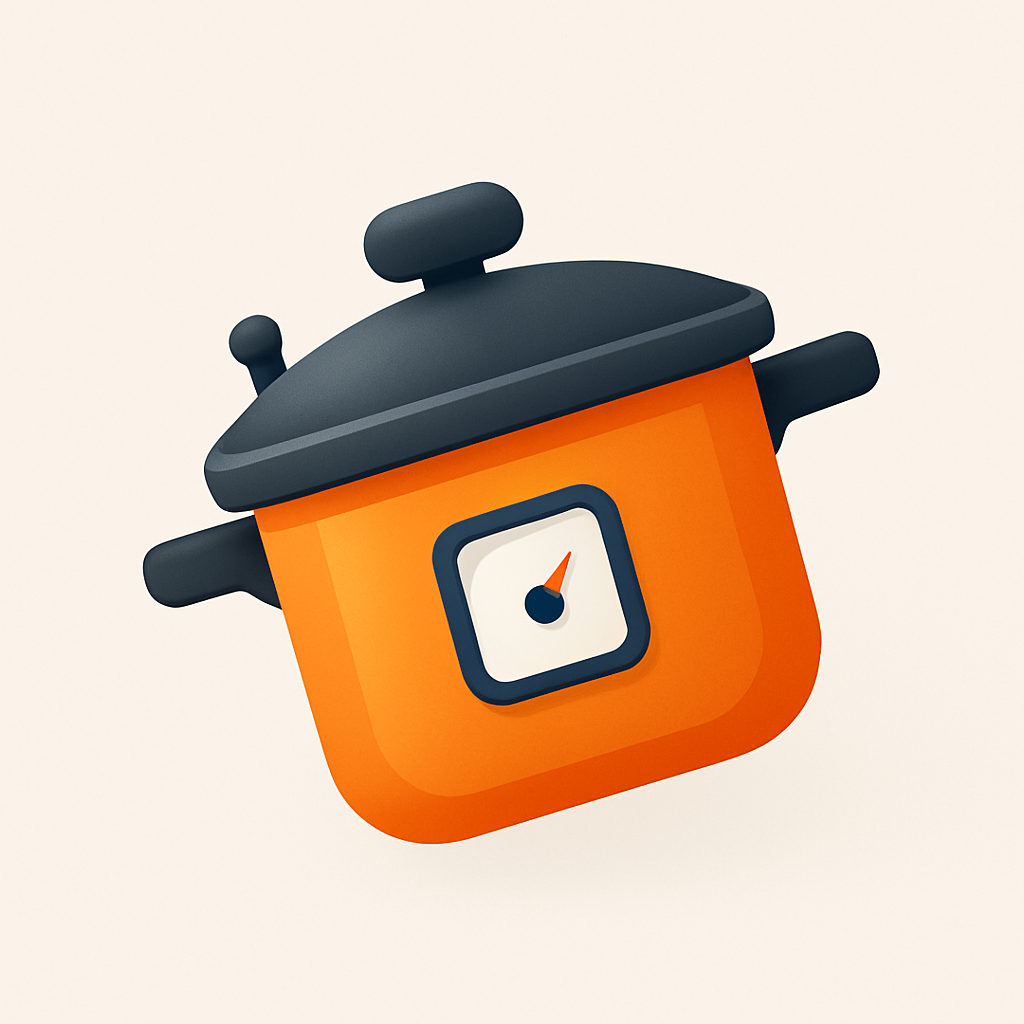
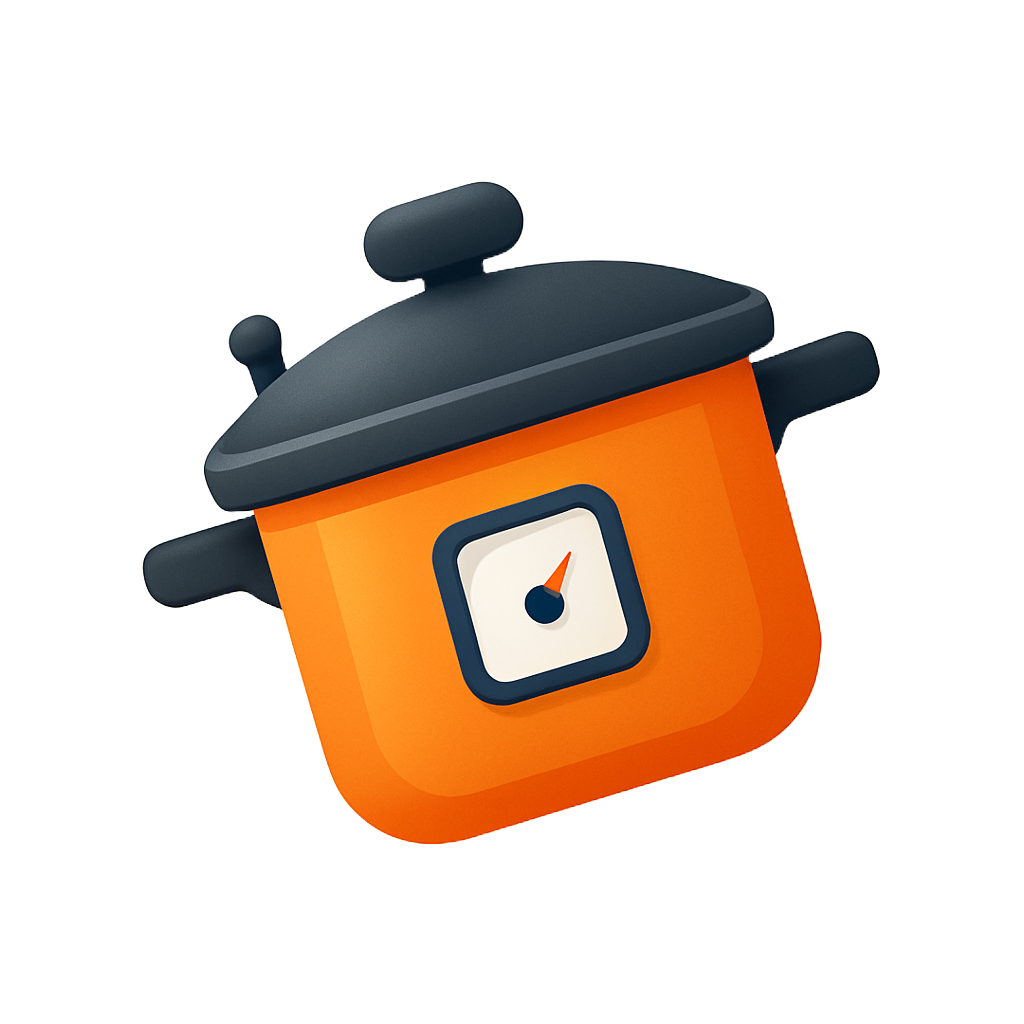
update styles on home page

Changed region(s): [[0.3125, 0.5938, 1.0, 0.9062], [0.4688, 0.25, 0.5, 0.2812]]

diff --git a/app/(tabs)/index.tsx b/app/(tabs)/index.tsx
@@ -10,7 +10,7 @@ import "@/css/global.css";
 import { formatTime } from "@/scripts/formatting";
 import { useState } from "react";
 import { View } from "react-native";
-import ThemedView from "../../components/custom/ThemedView";
+import Tile from "../../components/custom/Tile";
 
 export default function Home() {
   // modal visibility
@@ -33,12 +33,11 @@ export default function Home() {
           className="w-full"
         />
       }
-      className="bg-secondary-100"
+      className=" flex-1"
     >
-      <View className="m-6">
-        {/* Get Started */}
-        <ThemedView>
-          <Heading size="2xl" className="mb-4 text-typography-950">
+      <View className="m-6 gap-6">
+        <Tile>
+          <Heading size="2xl" className="text-typography-950">
             {"Let's Get Started"}
           </Heading>
 
@@ -69,7 +68,7 @@ export default function Home() {
               {formatTime(inputTimeLow, inputTimeHigh)}
             </ButtonText>
           </Button>
-        </ThemedView>
+        </Tile>
 
         <Instructions
           visible={!!inputWeight && !!inputTimeLow}
@@ -79,13 +78,14 @@ export default function Home() {
         />
       </View>
 
-      <View className="items-center justify-center">
+      <View className="items-center">
         <Image
           alt="pressure cooker"
           size="xl"
-          source={require("@/assets/images/pressure-cooker-2.png")}
+          source={require("@/assets/images/pressure-cooker.png")}
         />
       </View>
+
       <TimeModal
         visible={inputTimeVisible}
         setVisible={setInputTimeVisible}
@@ -94,6 +94,7 @@ export default function Home() {
         inputTimeHigh={inputTimeHigh}
         setInputTimeHigh={setInputTimeHigh}
       />
+
       <WeightModal
         visible={inputWeightVisible}
         setVisible={setInputWeightVisible}

diff --git a/components/custom/Instructions.tsx b/components/custom/Instructions.tsx
@@ -1,4 +1,4 @@
-import ThemedView from "@/components/custom/ThemedView";
+import Tile from "@/components/custom/Tile";
 import { Text } from "@/components/ui/text";
 import { negNumberWarning, zeroNote } from "@/constants/constants";
 import { calculateTime, calculateWater } from "@/scripts/calculations";
@@ -26,18 +26,17 @@ export default function Instructions({
 
   return (
     <>
-      <ThemedView>
+      <Tile>
         <Heading size="xl">Quick:</Heading>
         <Text size="lg">{`Water - ${formattedWater}   Time - ${formattedTime}`}</Text>
-        {/* <Text size="lg">{`Time: ${formattedTime}`}</Text> */}
         {calculatedTime === -1 && (
           <Text size="lg" className="text-error-300 mb-2">
             {negNumberWarning}
           </Text>
         )}
-      </ThemedView>
+      </Tile>
 
-      <ThemedView>
+      <Tile>
         <Heading size="xl">Full:</Heading>
         <Text
           size="lg"
@@ -62,7 +61,7 @@ export default function Instructions({
           6. Put lid back on and let sit for another 5-10 minutes
         </Text>
         <Text size="lg">7. Done!</Text>
-      </ThemedView>
+      </Tile>
     </>
   );
 }

diff --git a/components/ui/parallax/ParallaxScrollView.tsx b/components/ui/parallax/ParallaxScrollView.tsx
@@ -13,7 +13,7 @@ const HEADER_HEIGHT = 250;
 
 type Props = PropsWithChildren<{
   headerImage: ReactElement;
-  className: string;
+  className?: string;
 }>;
 
 export default function ParallaxScrollView({
@@ -46,7 +46,7 @@ export default function ParallaxScrollView({
   });
 
   return (
-    <View className={`flex-1 ${className}`}>
+    <View className="flex-1">
       <Animated.ScrollView
         ref={scrollRef}
         scrollEventThrottle={16}
@@ -55,7 +55,7 @@ export default function ParallaxScrollView({
       >
         <Animated.View
           style={headerAnimatedStyle}
-          className={`h-[${HEADER_HEIGHT}] overflow-hidden`}
+          className={`h-[${HEADER_HEIGHT}] overflow-hidden ${className}`}
         >
           {headerImage}
         </Animated.View>

diff --git a/components/custom/Tile.jsx b/components/custom/Tile.jsx
@@ -1,0 +1,9 @@
+import { View } from 'react-native';
+
+export default function Tile({children}) {
+ return (
+    <View className="p-6 bg-white rounded-xl shadow-md">
+        {children}
+    </View>
+ );
+}
